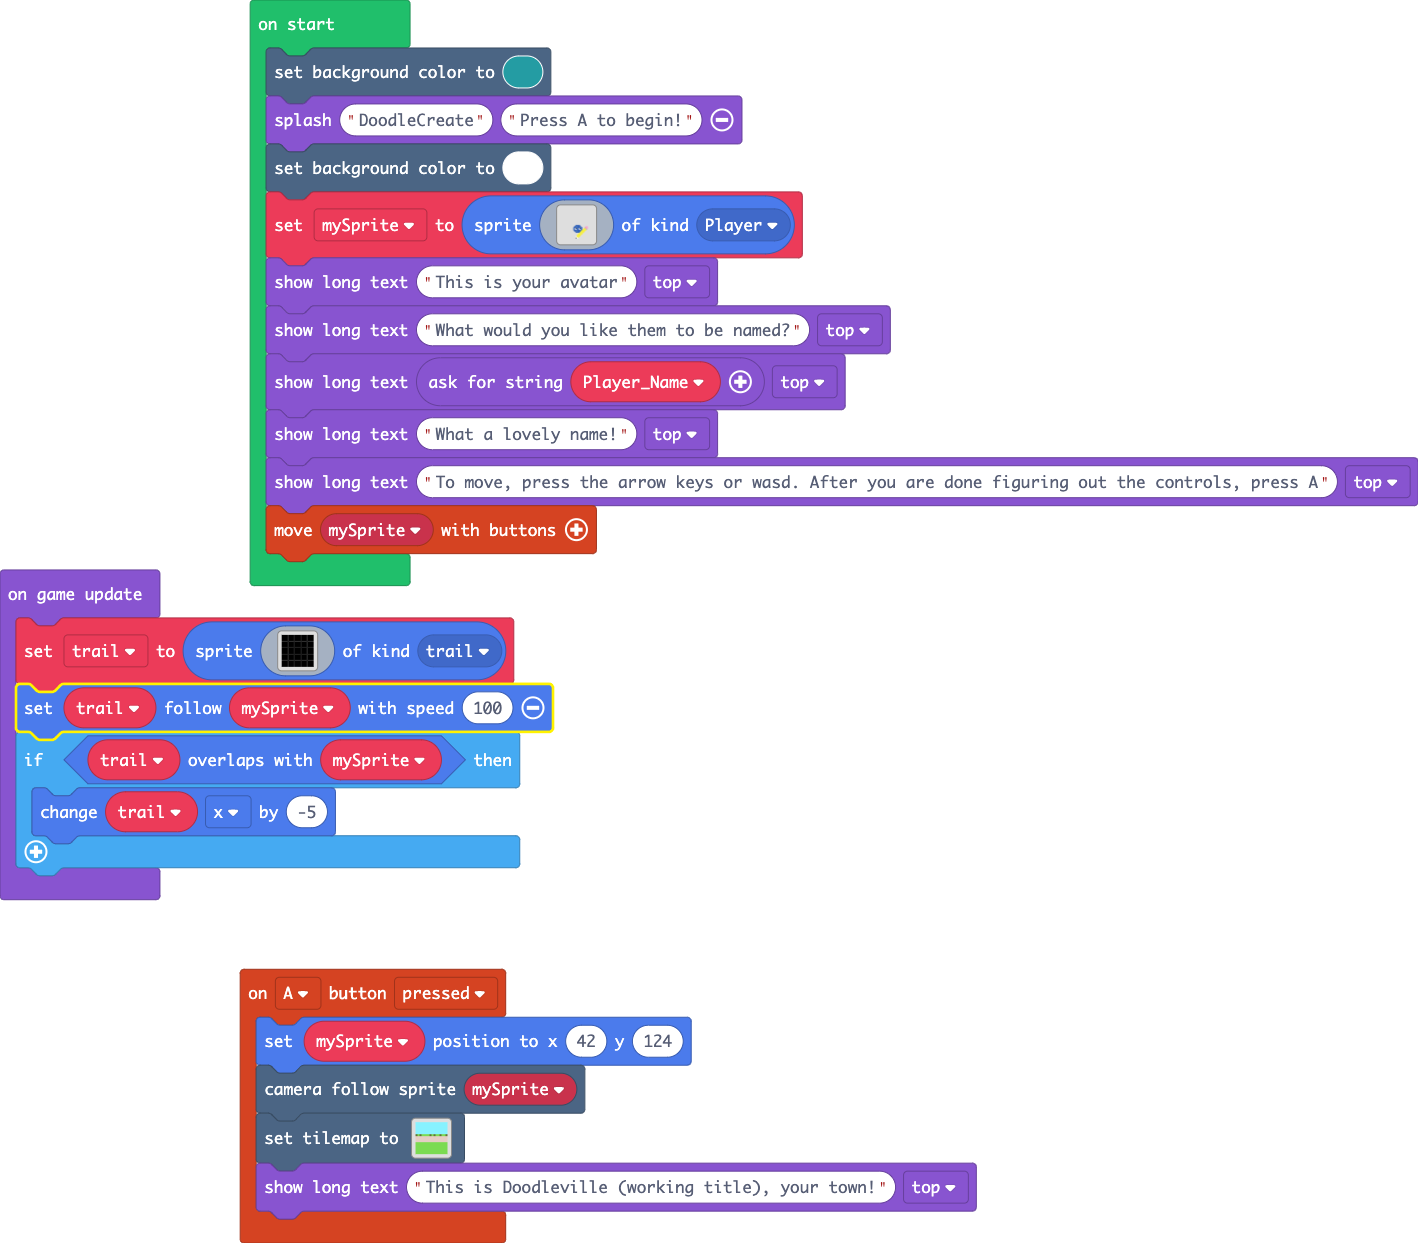
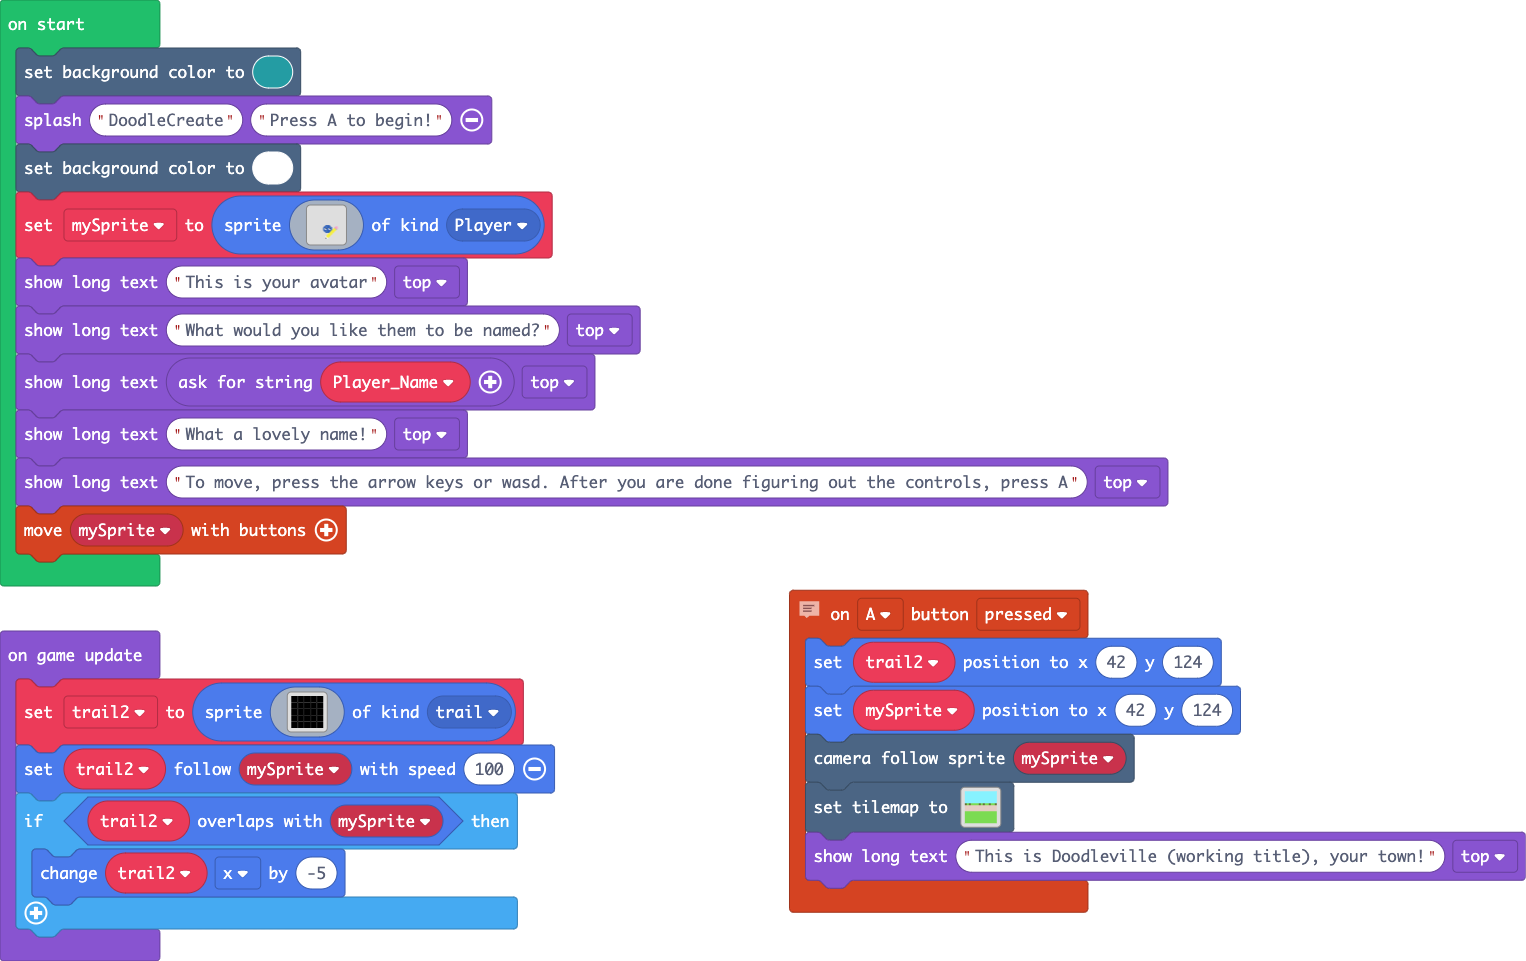
Update main.blocks, main.ts

diff --git a/main.ts b/main.ts
@@ -121,6 +121,7 @@ d d d d d d d d d d d d d d d d
 // sprites!  I like all of this!  Keep up the good
 // work!
 controller.A.onEvent(ControllerButtonEvent.Pressed, function () {
+    trail2.setPosition(42, 124)
     mySprite.setPosition(42, 124)
     scene.cameraFollowSprite(mySprite)
     tiles.setTilemap(tiles.createTilemap(
@@ -148,7 +149,7 @@ controller.A.onEvent(ControllerButtonEvent.Pressed, function () {
         ))
     game.showLongText("This is Doodleville (working title), your town!", DialogLayout.Top)
 })
-let trail: Sprite = null
+let trail2: Sprite = null
 let Player_Name = ""
 let mySprite: Sprite = null
 scene.setBackgroundColor(6)
@@ -203,15 +204,15 @@ game.showLongText("What a lovely name!", DialogLayout.Top)
 game.showLongText("To move, press the arrow keys or wasd. After you are done figuring out the controls, press A", DialogLayout.Top)
 controller.moveSprite(mySprite)
 game.onUpdate(function () {
-    trail = sprites.create(img`
+    trail2 = sprites.create(img`
 f f f f f 
 f f f f f 
 f f f f f 
 f f f f f 
 f f f f f 
 `, SpriteKind.trail)
-    trail.follow(mySprite, 100)
-    if (trail.overlapsWith(mySprite)) {
-        trail.x += -5
+    trail2.follow(mySprite, 100)
+    if (trail2.overlapsWith(mySprite)) {
+        trail2.x += -5
     }
 })
